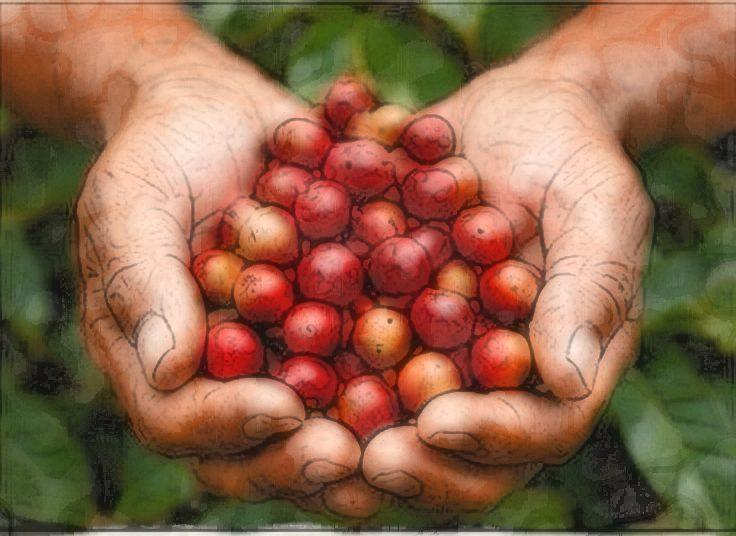
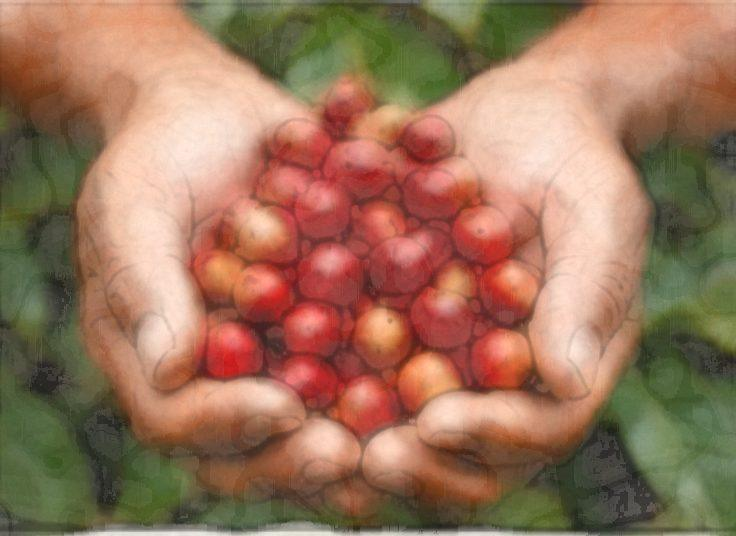
Acuarela más suelta y con menos rasgos
Formas de color más simples y con más agua; el dibujo a lápiz de fondo solo marca
las formas principales.

Claude-Session: https://claude.ai/code/session_017GV4r1LnM76EeMhZ1kb6Pe

diff --git a/tools/acuarela.py b/tools/acuarela.py
@@ -14,15 +14,15 @@ def blur(a, r): return np.asarray(to_img(a).filter(ImageFilter.GaussianBlur(r)),
 def lum(a): return a @ np.array([.299,.587,.114], np.float32)
 def noise(r): n = blur(rng.random((H,W),np.float32), r); return (n-n.min())/(np.ptp(n)+1e-6)
 paper = np.array([.99,.975,.94], np.float32)
-# big simple shapes: paint at quarter size, then bring back up
-small = to_img(rgb).resize((W//4, H//4), Image.LANCZOS)
+# big simple shapes: paint at a fifth of the size, then bring back up
+small = to_img(rgb).resize((W//5, H//5), Image.LANCZOS)
 for _ in range(2): small = small.filter(ImageFilter.MedianFilter(5))
-simp = np.asarray(small.resize((W, H), Image.BICUBIC).filter(ImageFilter.GaussianBlur(3)), np.float32)/255
+simp = np.asarray(small.resize((W, H), Image.BICUBIC).filter(ImageFilter.GaussianBlur(2.5)), np.float32)/255
 sg = lum(simp)[..., None]
 simp = sg+(simp-sg)*1.5
 # wet bleeding
 yy, xx = np.mgrid[0:H, 0:W]
-dx = (noise(22)-.5)*22; dy = (noise(22)-.5)*22
+dx = (noise(22)-.5)*24; dy = (noise(22)-.5)*24
 wash = simp[np.clip((yy+dy).astype(int),0,H-1), np.clip((xx+dx).astype(int),0,W-1)]
 # transparent, high-key pigment: lift the darks, leave highlights as bare paper
 amt = np.clip((1-lum(wash))*1.25, 0, 1)
@@ -31,18 +31,19 @@ amt = np.where(lum(wash) > .8, amt*.25, amt)
 blot = noise(30)
 bloom = noise(14)
 rings = np.exp(-((bloom-.55)/.035)**2)   # thin darker rings where blooms dried
-dens = np.clip(.55+.5*blot+.18*rings, .35, 1.1)
-k = (amt*dens*.8)[..., None]
+dens = np.clip(.55+.5*blot+.1*rings, .35, 1.1)
+k = (amt*dens*.72)[..., None]
 out = paper-(paper-wash)*np.clip(k*1.15, 0, .85)
 # pigment pooling at the wash borders
 gy, gx = np.gradient(blur(lum(wash), 2))
-edge = np.clip(np.hypot(gx, gy)*18, 0, 1)
-out = out*(1-.22*edge)[..., None]
+edge = np.clip(np.hypot(gx, gy)*20, 0, 1)
+out = out*(1-.25*edge)[..., None]
 # granulation and paper tooth
 gran = noise(.8); tooth = noise(2.5)
 out = out*((1-(gran-.5)*.12*(1.1-lum(out)))*(1-(tooth-.5)*.07))[..., None]
-# pencil underdrawing
+# faint pencil underdrawing (only the main shapes)
 g = lum(rgb)
-sk = np.clip(g/np.maximum(1-blur(1-g, 2.5), 1e-3), 0, 1)**3.5
-out = out*(1-(1-sk)*.5)[..., None]
+gs = blur(g, 1.4)
+sk = np.clip(gs/np.maximum(1-blur(1-gs, 3), 1e-3), 0, 1)**2.5
+out = out*(1-(1-sk)*.3)[..., None]
 to_img(out).save(dst, quality=82, optimize=True, progressive=True)
